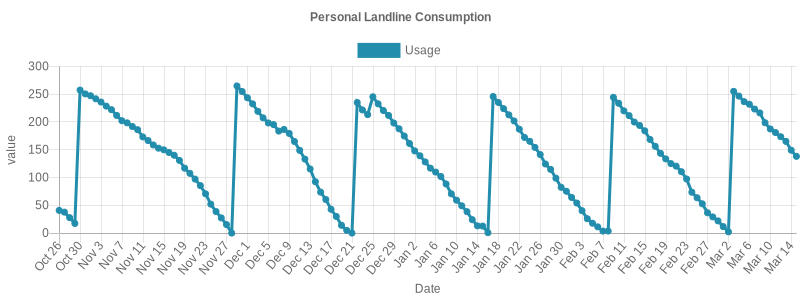
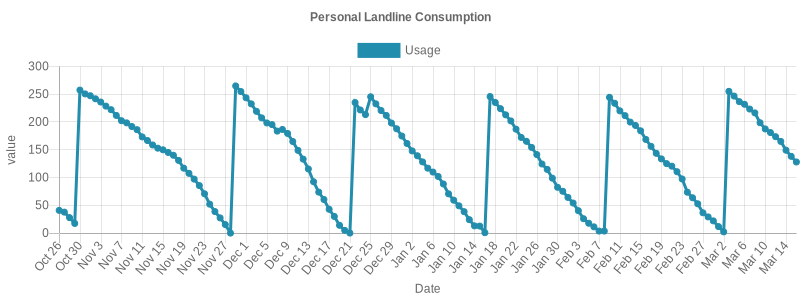
update logs

diff --git a/quota-logs/README.md b/quota-logs/README.md
@@ -140,3 +140,4 @@
 ## Wed Mar 13 2024 00:34:47 GMT+0200|164.98/250
 ## Thu Mar 14 2024 00:35:15 GMT+0200|149.16/250
 ## Fri Mar 15 2024 00:34:45 GMT+0200|138.15/250
+## Sat Mar 16 2024 00:35:26 GMT+0200|127.98/250
